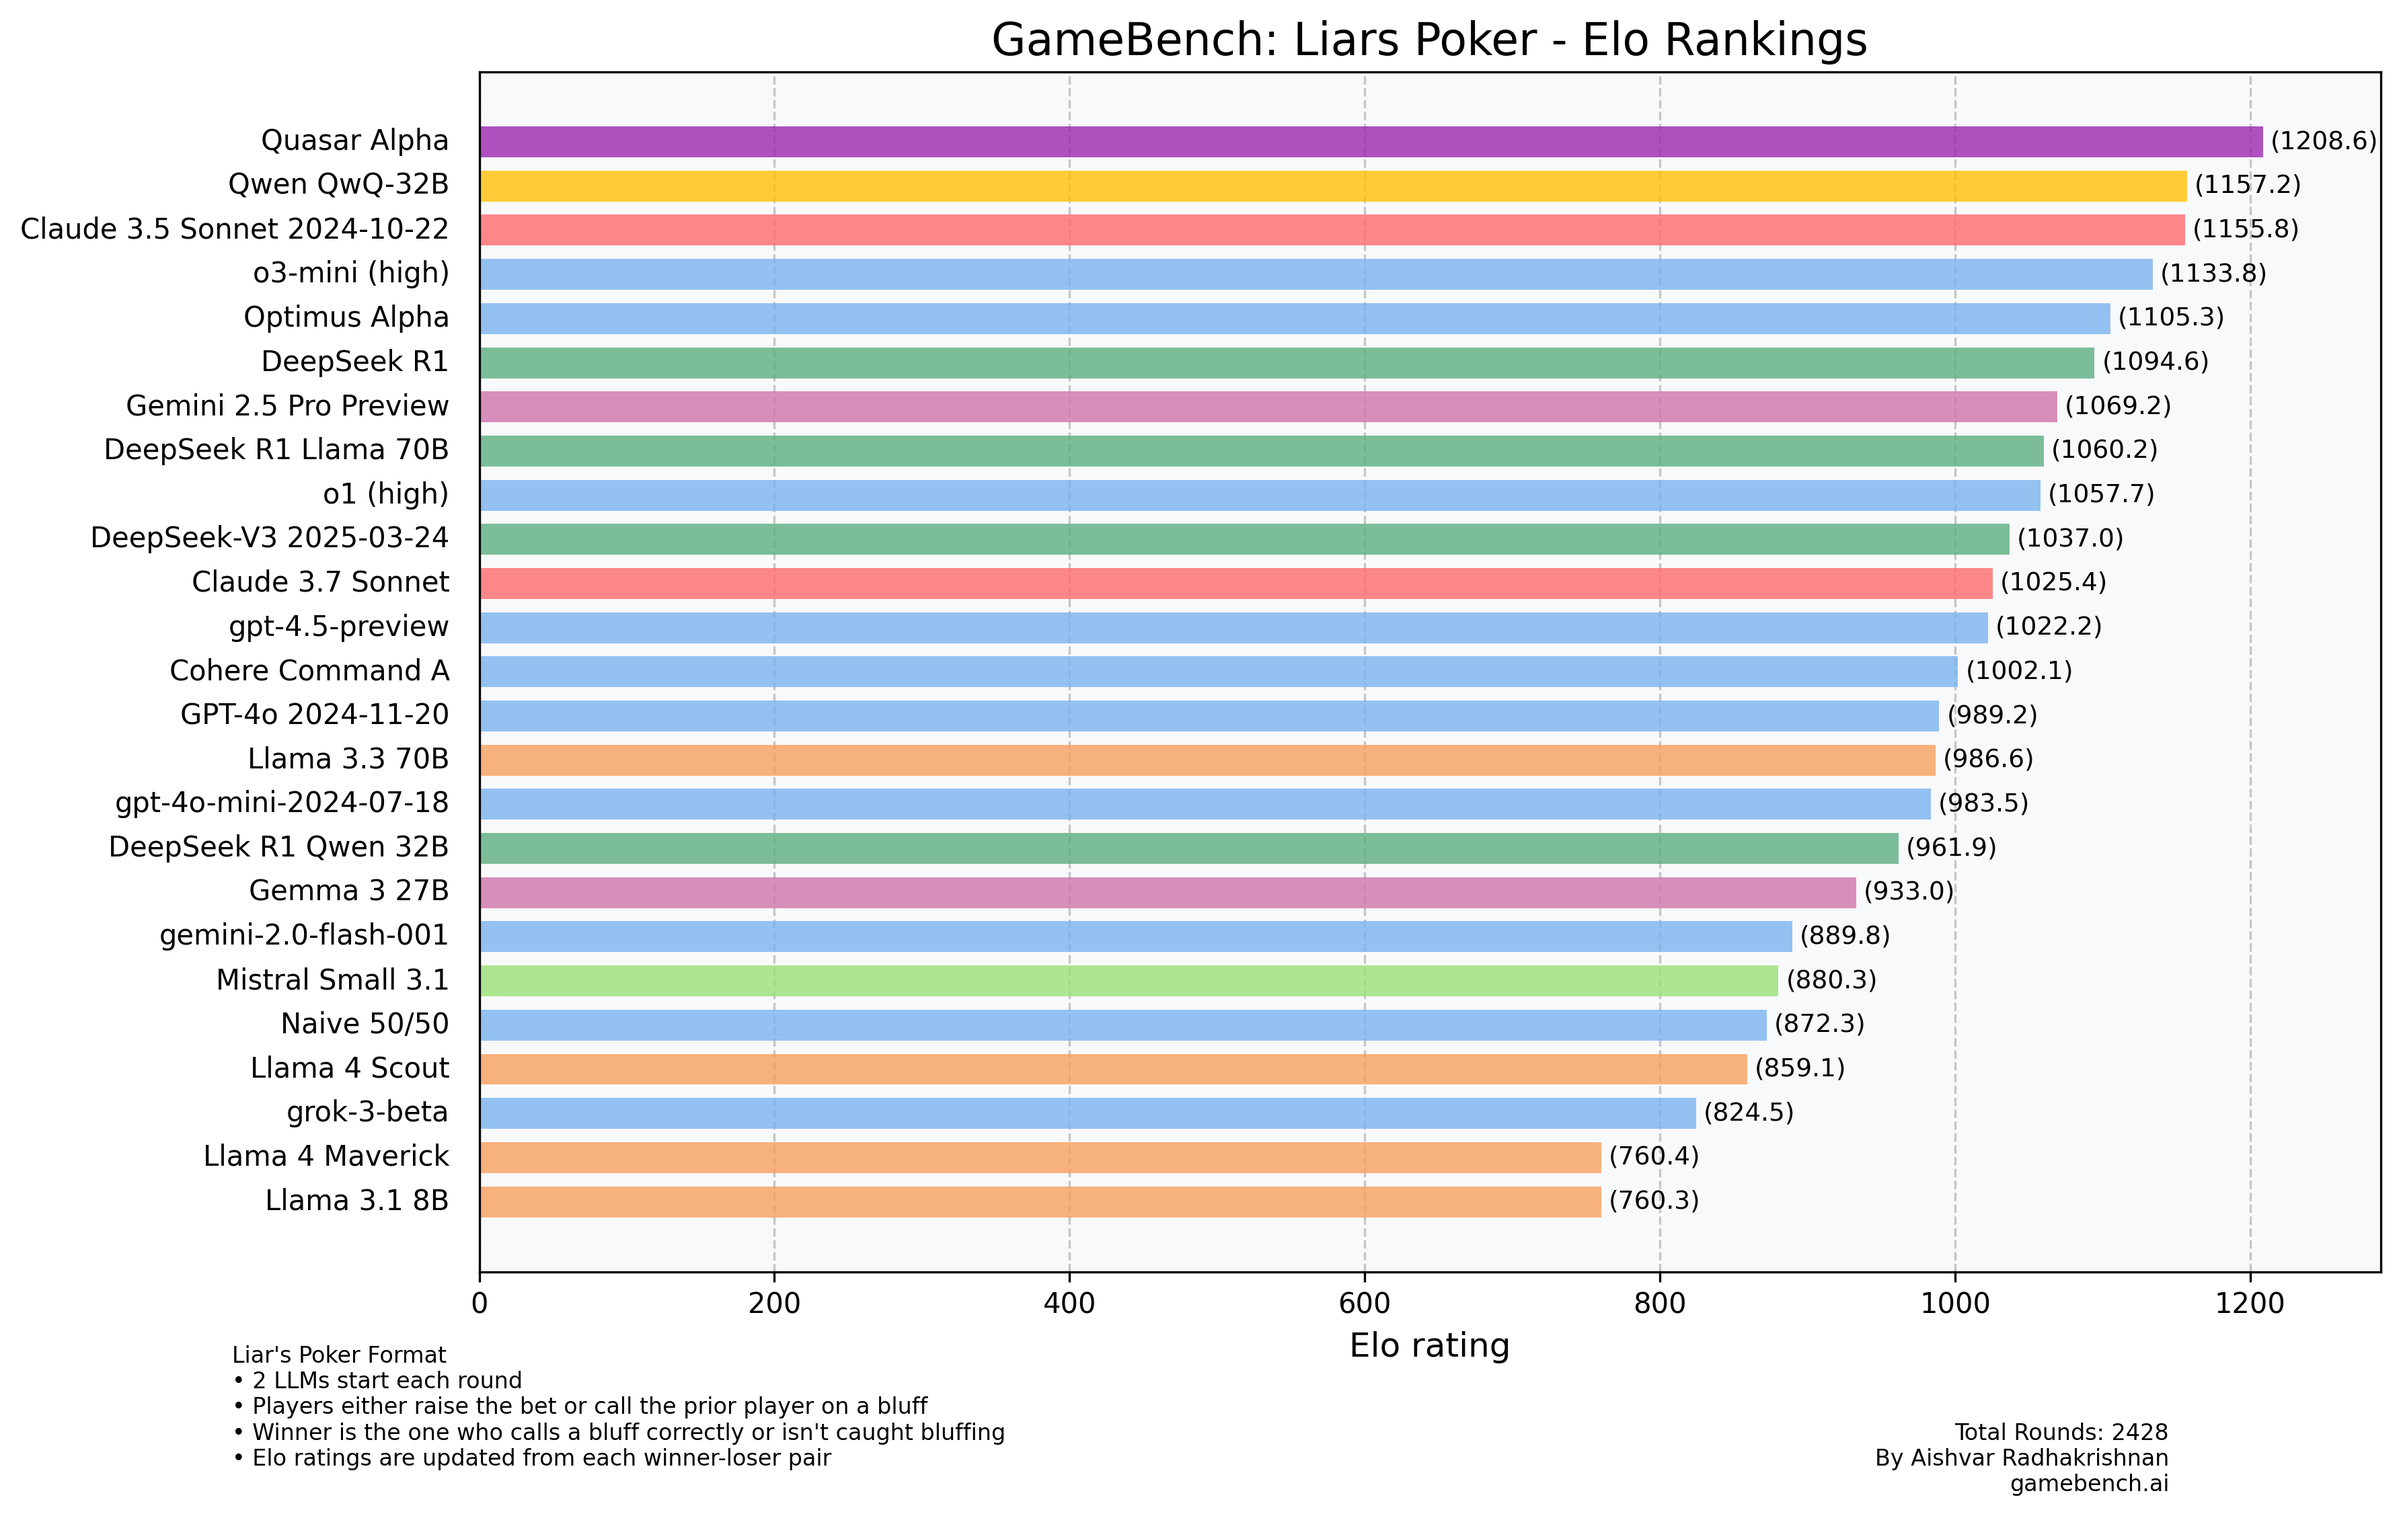
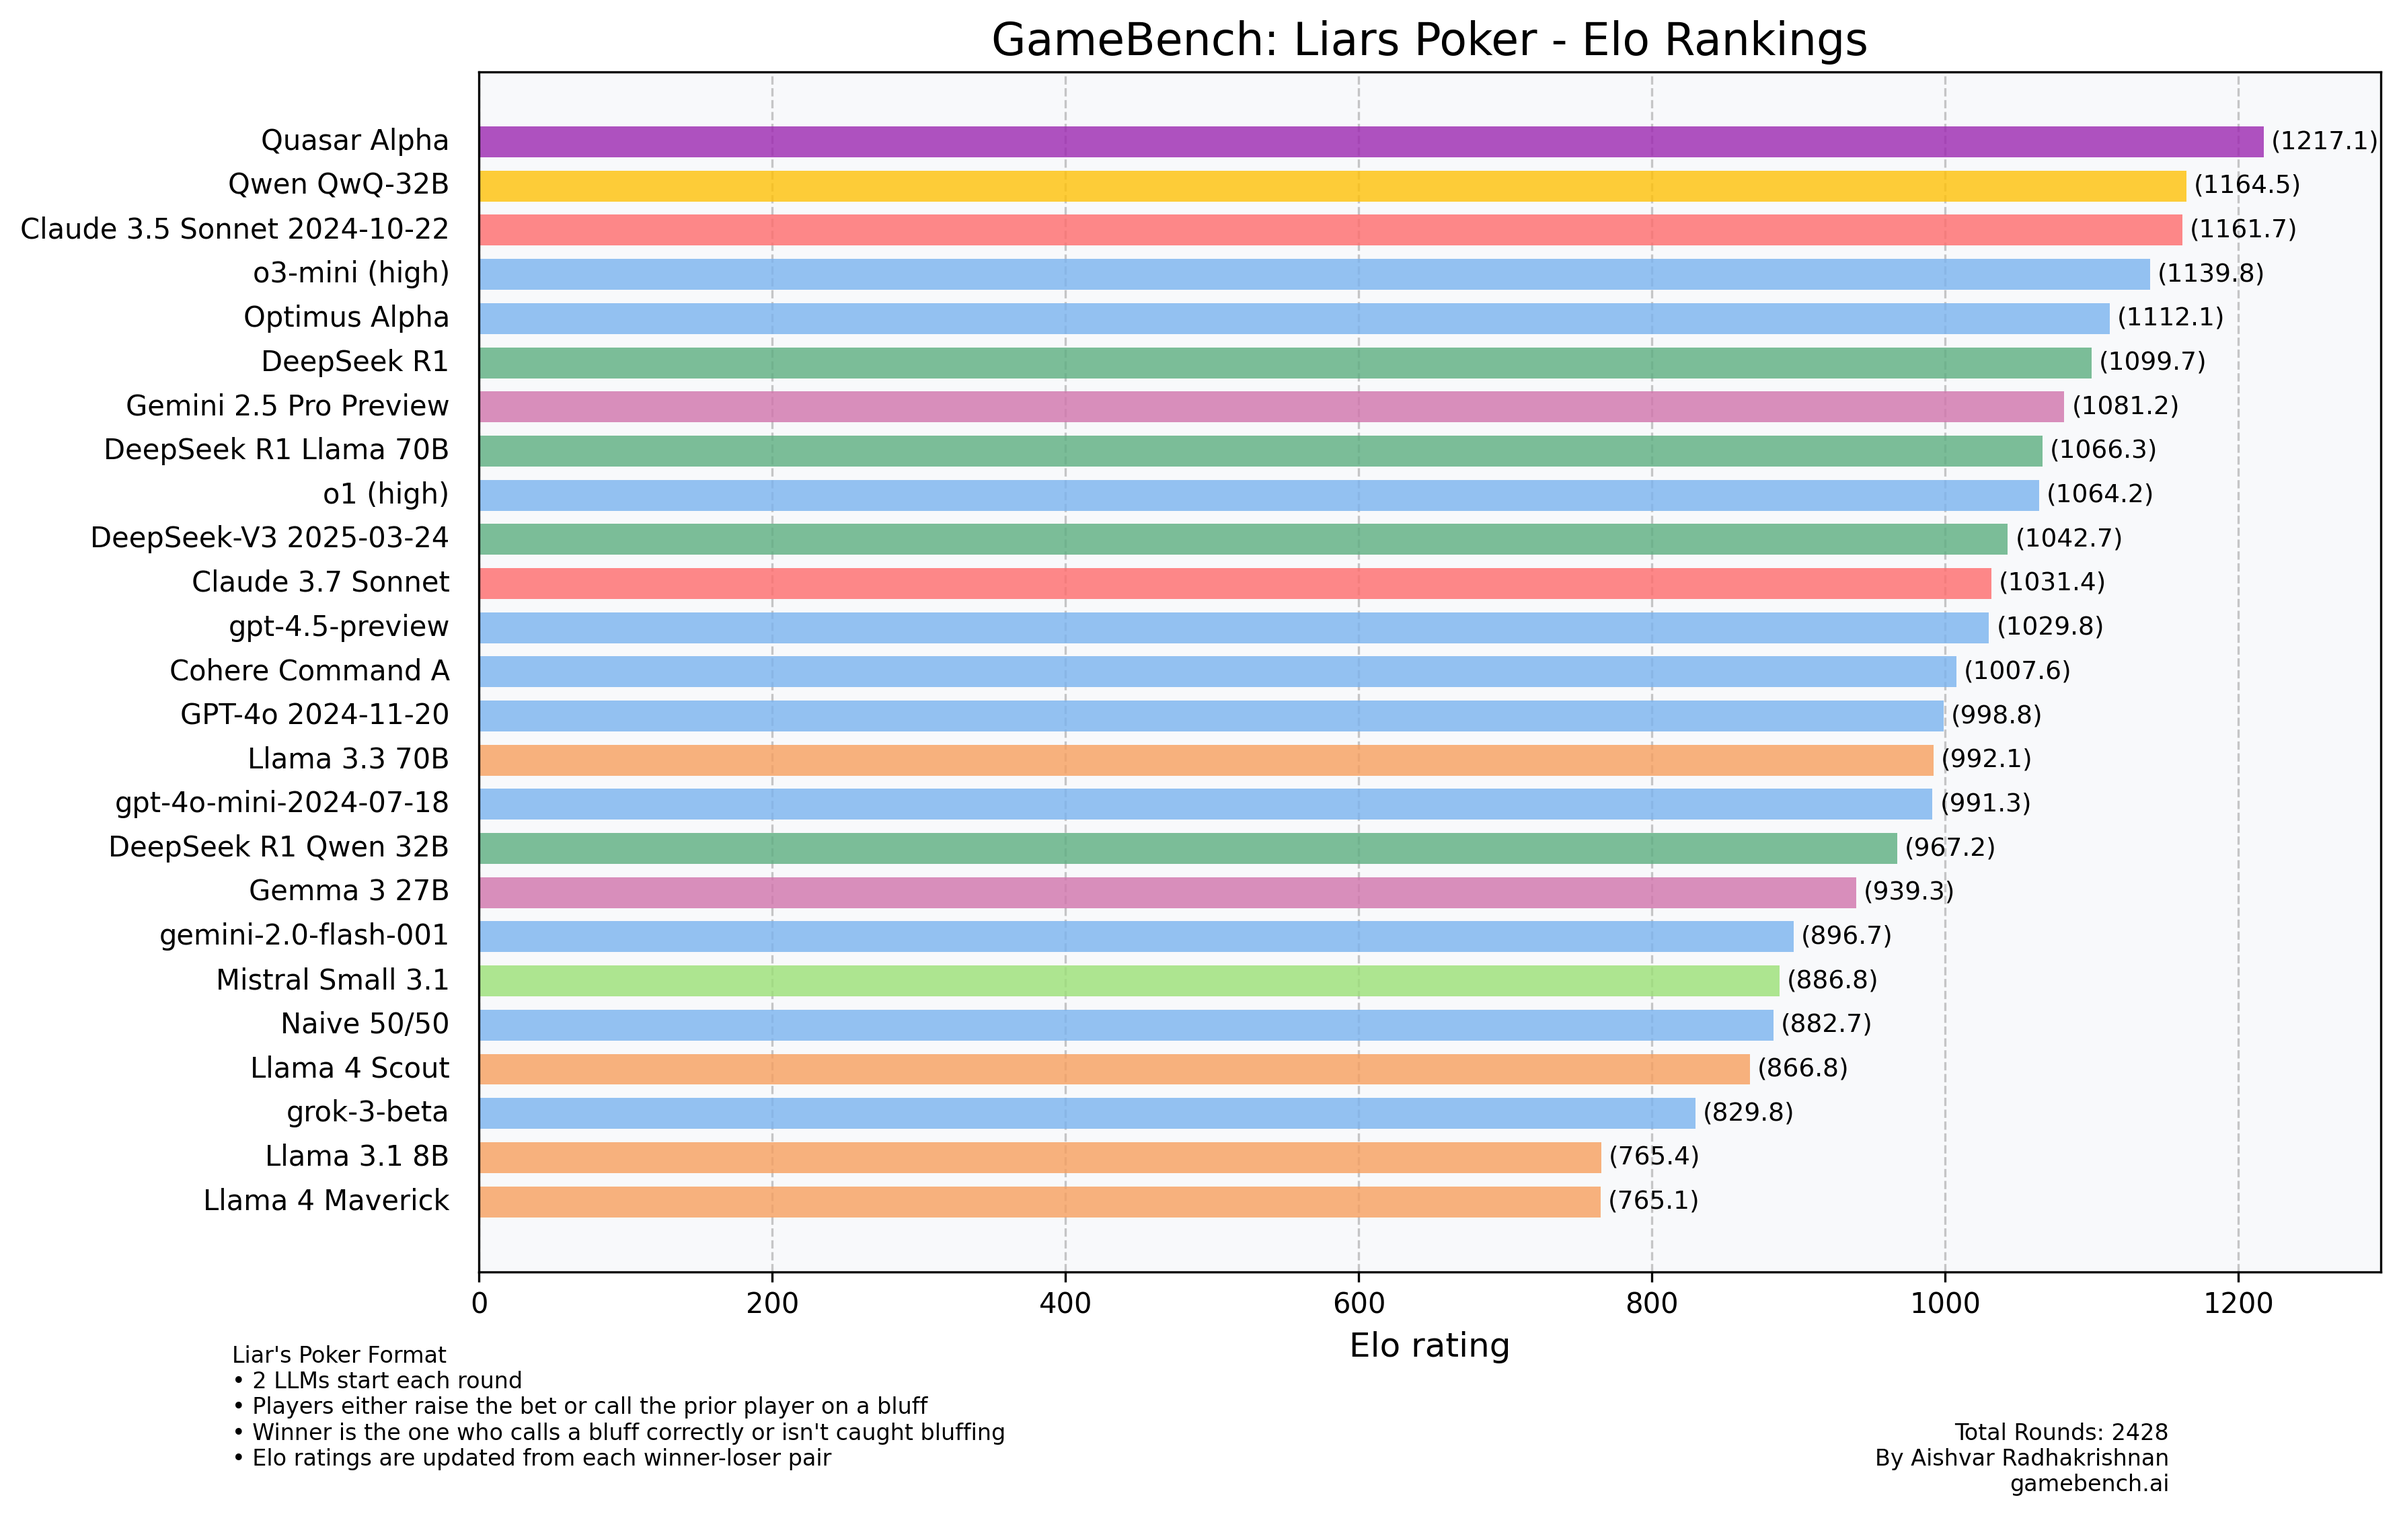
minor elo bug fixed
elo bug if 2 of same players play, so skipped processing those (no new info)

diff --git a/evaluate_elo.py b/evaluate_elo.py
@@ -1,6 +1,6 @@
 #!/usr/bin/env python3
 
-#use this for 2-player games
+# use this for 2-player games
 
 import os
 import json
@@ -14,15 +14,9 @@ def canonical_name(model_name):
     return model_name.split(":", 1)[0]
 
 def elo_expected(ratingA, ratingB):
-    """Returns expected score for A vs. B using standard 400-point spacing."""
     return 1.0 / (1.0 + 10.0 ** ((ratingB - ratingA) / 400.0))
 
 def elo_update(ratingA, ratingB, scoreA, k=20):
-    """
-    ratingA, ratingB: current Elo ratings for A and B.
-    scoreA: actual score for A (1 if A wins, 0 if A loses).
-    Returns the updated (ratingA, ratingB).
-    """
     expectedA = elo_expected(ratingA, ratingB)
     expectedB = 1.0 - expectedA
     newA = ratingA + k * (scoreA - expectedA)
@@ -55,8 +49,8 @@ def main():
         winner = canonical_name(entry["winner"])
         losers = [canonical_name(l) for l in entry["losers"]]
 
-        # If there's no winner, skip rating updates
-        if winner is None:
+        # Skip Elo update if it's a self-match (winner appears in losers)
+        if winner is None or winner in losers:
             new_timestamps.append(ts)
             continue
 
@@ -71,7 +65,6 @@ def main():
         for lm in losers:
             w_rating = model_ratings[winner]
             l_rating = model_ratings[lm]
-            # Winner gets 1.0, loser gets 0.0
             new_w, new_l = elo_update(w_rating, l_rating, 1.0, k=20)
             model_ratings[winner] = new_w
             model_ratings[lm] = new_l
